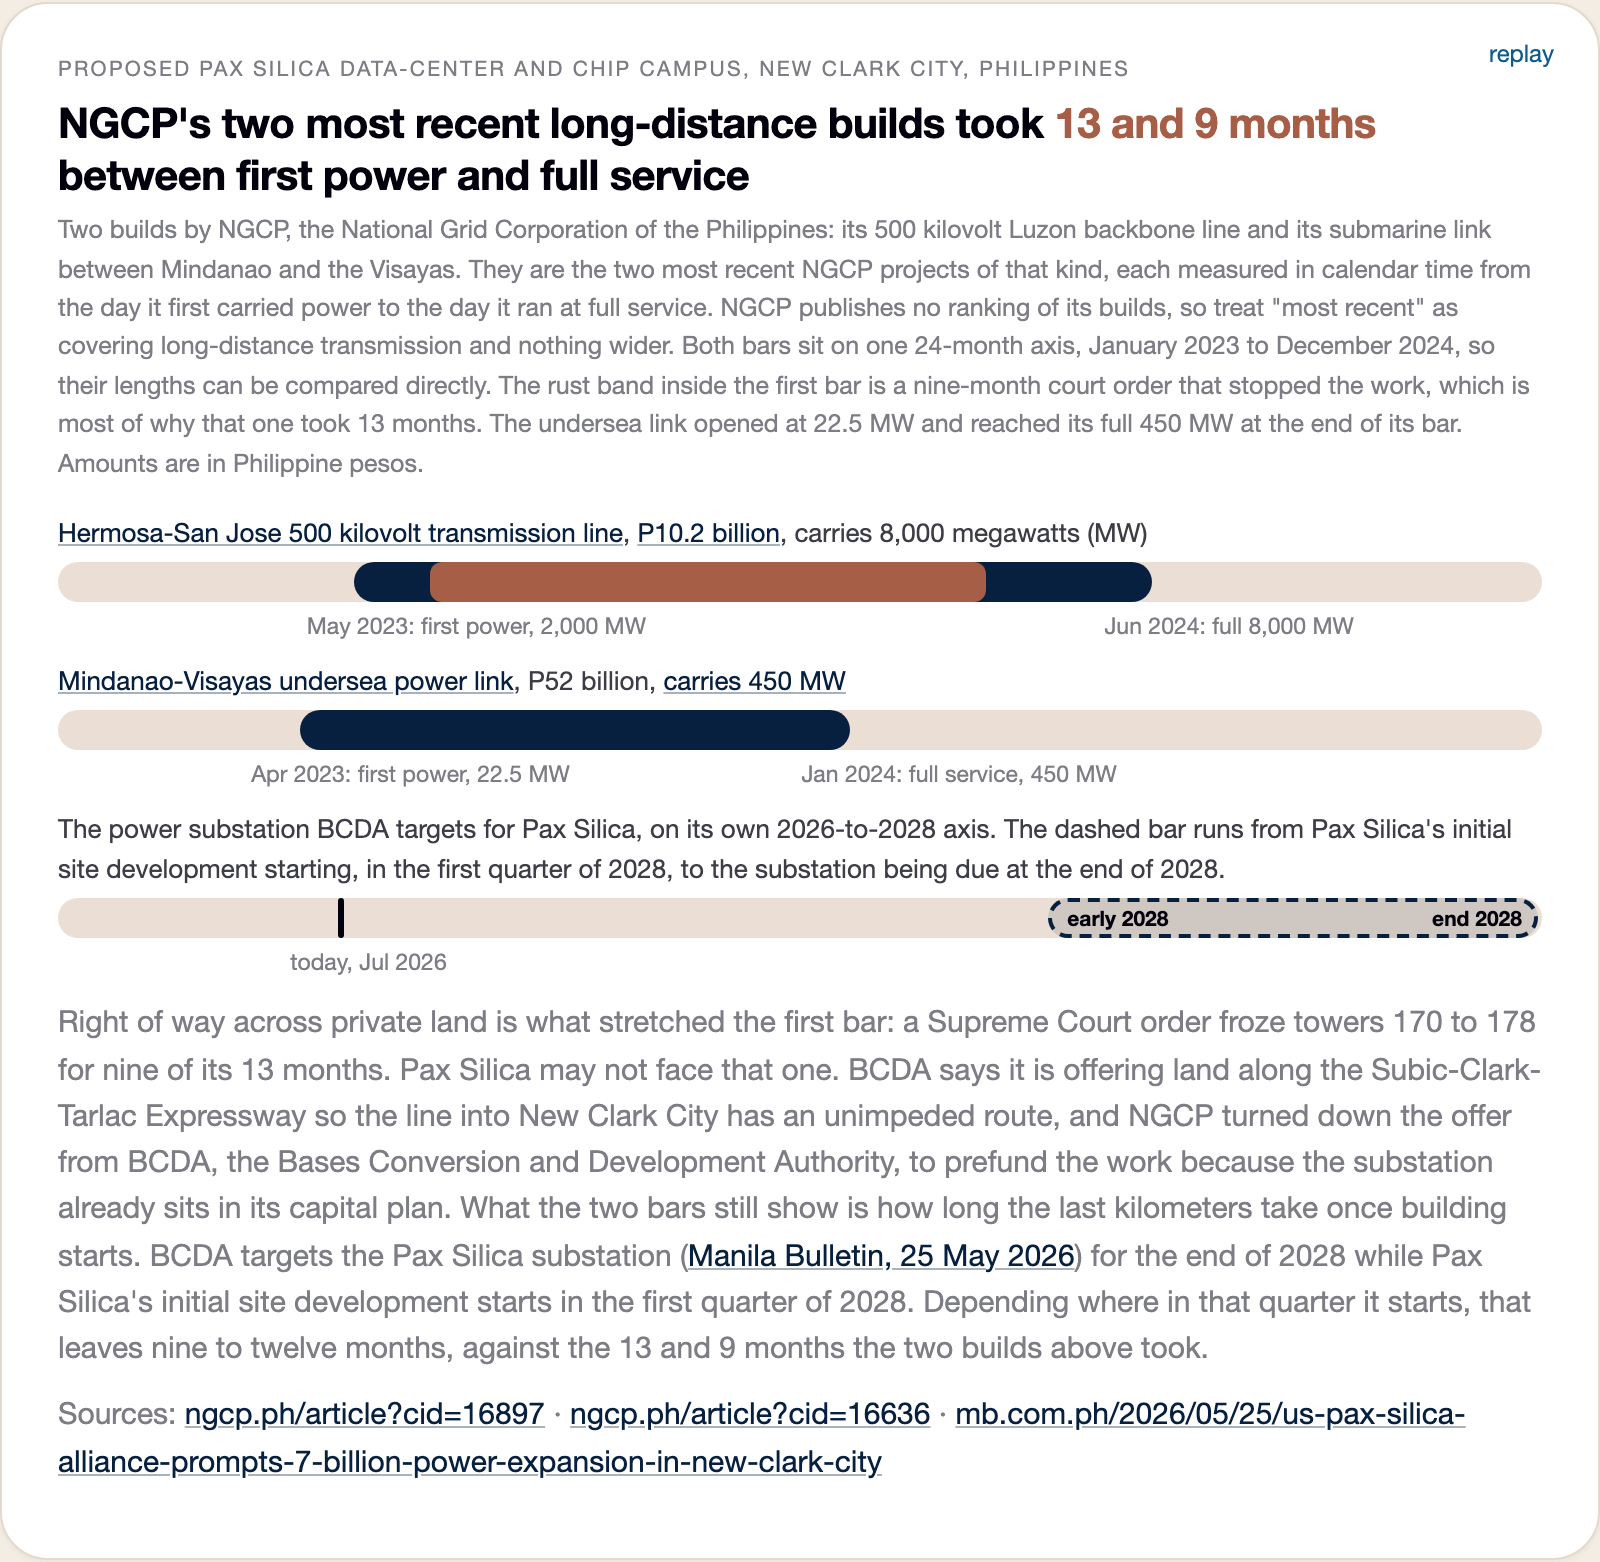
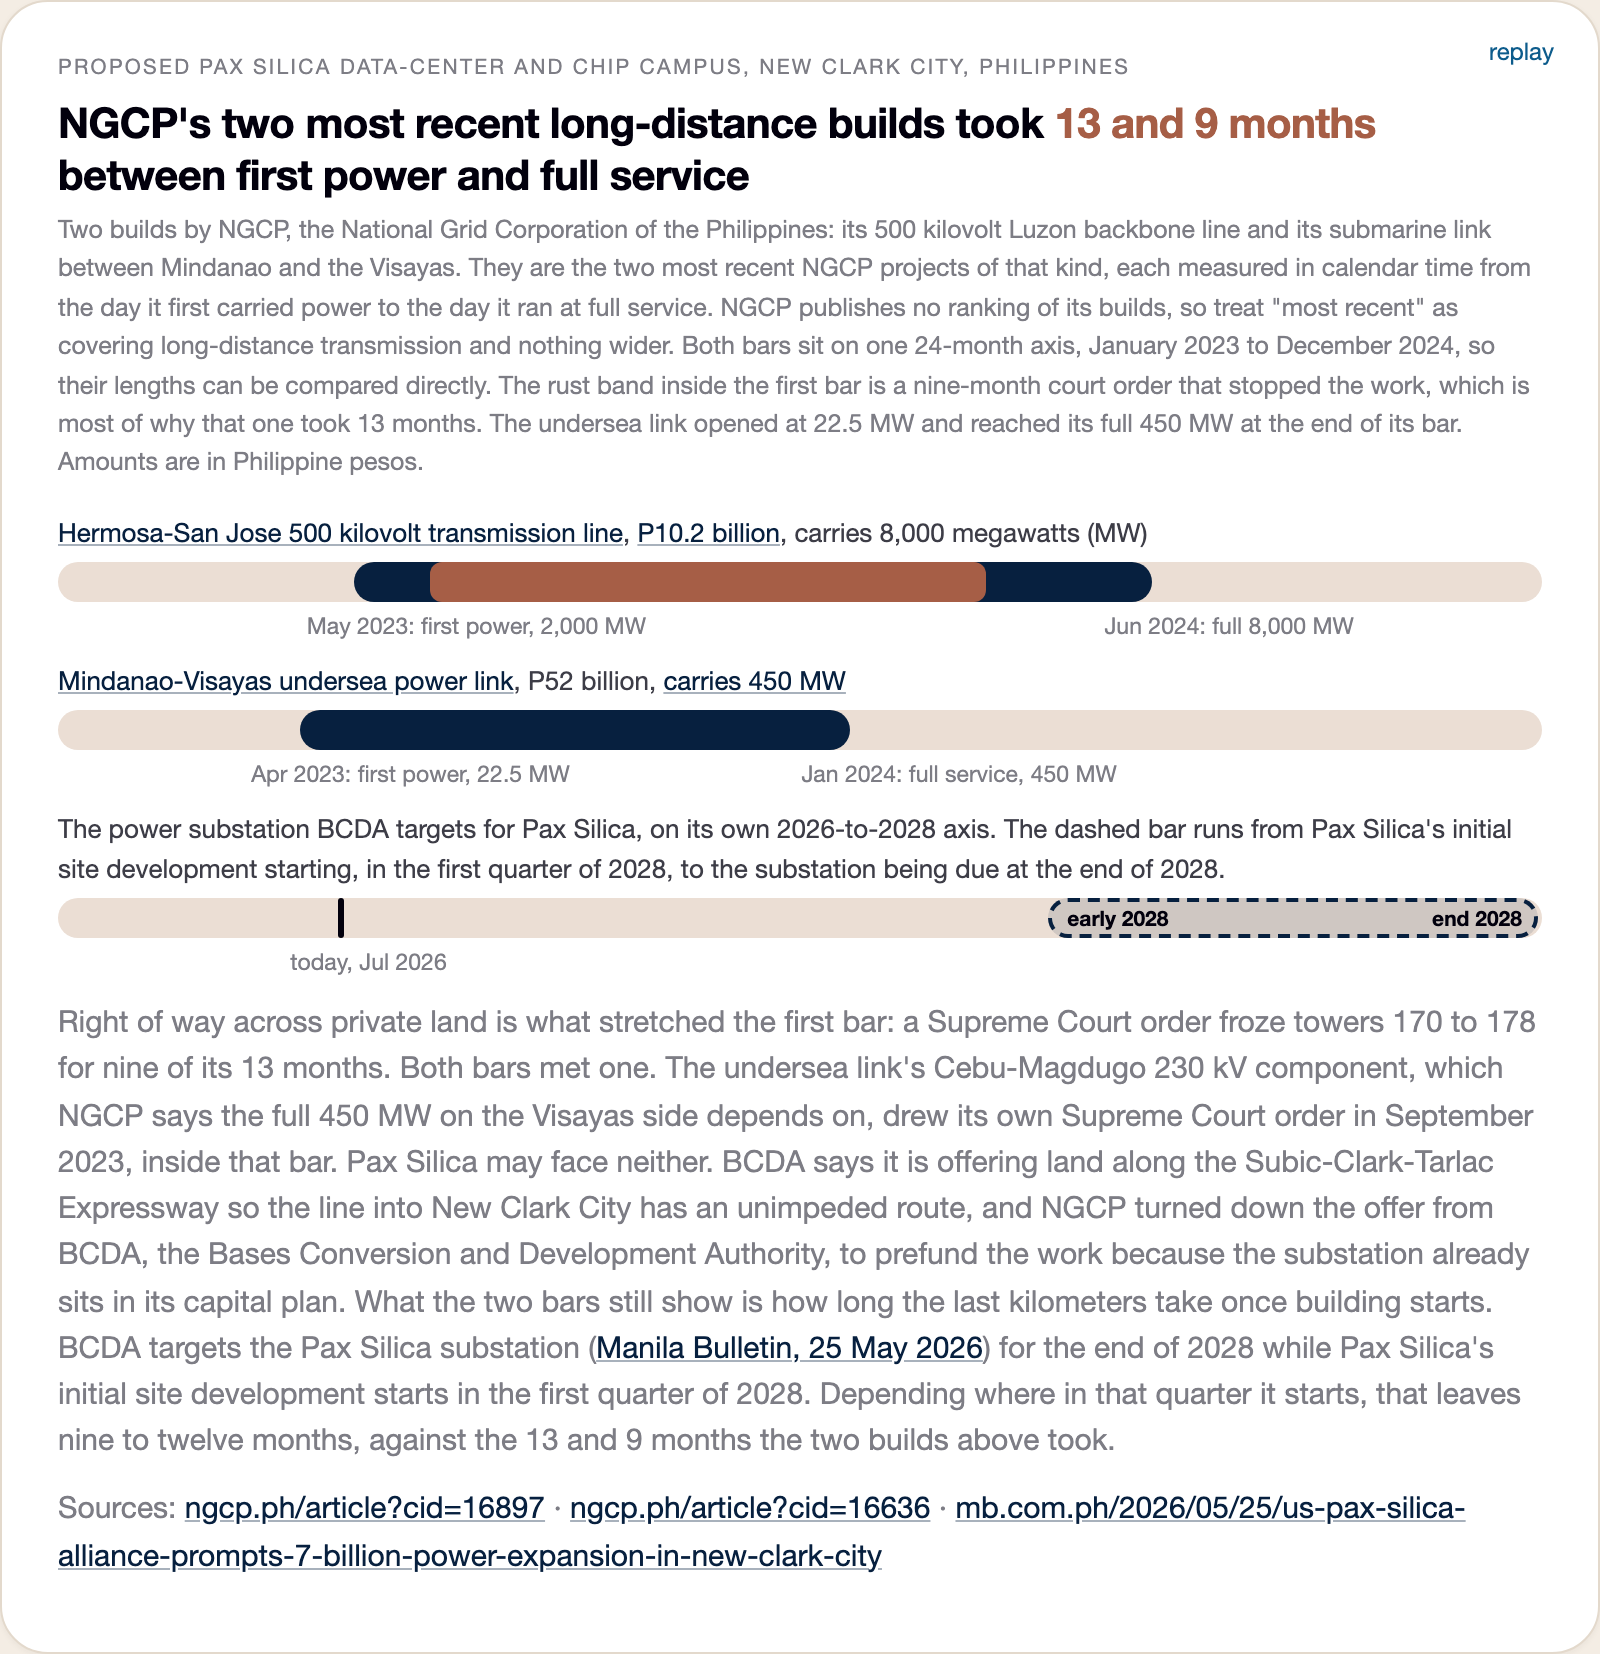
Stop saying hydro sets a P12.00 price, and correct seven more things an eighth reader landed
Round 2's own fix was half wrong. Correcting "oil sets the price in all 24
hours" to "16 of 24" swapped one error for another: the engine's marginal label
is the last block the stack dispatches, not the block whose cost the hour clears
at. In hours 2 and 5 the label is hydro, priced at P0.50 on this page's own
supply curve, while the hour still clears at P12.00. The page now says the price
is P12.00 in every hour, names oil as the last block in 16 of them, and says the
other 8 still clear at P12.00. The bake carries a note on what the label is, so
nobody re-derives the wrong sentence from it.

The section heading said "The two power routes into Pax Silica can carry 770",
while the body two lines down said only one of the two feeds it. A heading gets
read alone. It now says one route.

The two NGCP Visayas numbers are yellow-alert advisories, which forecast the
evening ahead. The 16 June one says peak demand "was expected to reach" 2,384
MW. The page set those against a recorded 105-day maximum and called both
measurements.

Both grid builds met a Supreme Court order, not just the first. NGCP article
16899, which this page already cites for the completion date, records a
September 2023 order on the Cebu-Magdugo 230 kV line, inside the second bar.
"Pax Silica may not face that one" implied the second build ran clean.

Also:
- The solar card dated Enerdata to the 2 June signing while the closing block
[…]

diff --git a/web/pax-silica.html b/web/pax-silica.html
@@ -242,7 +242,8 @@ iyan" was the exact quote), held around the clock here, because chip plants and
 data centers do not sleep. Full development is 10 to 15 years after
 construction starts in 2028, so this is a 2040s figure. Put it beside the three
 island grids on one scale.
-Two NGCP bulletins bracket the same Visayas grid a different way: evening peak
+Two NGCP yellow-alert advisories bracket the same Visayas grid a different way.
+They forecast the evening ahead rather than record it, at a projected peak
 demand of
 <a href="https://www.gmanetwork.com/news/money/economy/991469/ngcp-visayas-grid-yellow-alert-june-15-2026/story/">2,482 MW
 on 15 June 2026</a> and
@@ -276,12 +277,13 @@ on 16 June</a>, against 2,581 and 2,587 MW available.</p>
   <a href="https://www.gmanetwork.com/news/money/economy/991469/ngcp-visayas-grid-yellow-alert-june-15-2026/story/">15 June
   2026</a> and
   <a href="https://www.gmanetwork.com/news/money/economy/991590/ngcp-visayas-grid-yellow-alert-june-16-2026/story/">16 June
-  2026</a> bulletins put Visayas evening peak demand at 2,482 and 2,384 MW,
-  against 2,581 and 2,587 MW available. Those are two different quantities from
-  the 2,744 shown, which is the highest 5-minute market energy requirement in
-  105 archived days and sits 11 to 15 percent above the bulletin peaks. The
-  point of putting them side by side is that they bracket the same grid, not
-  that they agree. Campus figure: BCDA president Joshua Bingcang via
+  2026</a> yellow-alert advisories forecast Visayas evening peak demand at 2,482
+  and 2,384 MW, against 2,581 and 2,587 MW of available capacity. Those are
+  day-ahead projections for one alert window each. The 2,744 shown is a
+  different quantity again: the highest 5-minute market energy requirement
+  recorded in 105 archived days, which sits 11 to 15 percent above the forecast
+  peaks. The point of putting them side by side is that they bracket the same
+  grid, not that they agree or that they measure the same thing. Campus figure: BCDA president Joshua Bingcang via
   <a href="https://www.gmanetwork.com/news/money/economy/995915/pax-silica-ai-hub-to-consume-3-gigawatts-at-full-development-bcda/story/">GMA
   News, 23 Jul 2026</a>, who put it at 3,000 MW at full development, which the
   same agency puts 10 to 15 years after construction starts in 2028. The higher
@@ -305,7 +307,7 @@ on 16 June</a>, against 2,581 and 2,587 MW available.</p>
 
 <!-- ============================ BEAT 2: SUN ============================== -->
 <section class="beat" id="b-sun">
-<h2>The solar farm leased next door covers 4 percent of Pax Silica's electricity for a day. Running Pax Silica on sunlight alone would take panels covering more than six times the area of Makati.</h2>
+<h2>The solar farm signed inside New Clark City covers 4 percent of Pax Silica's electricity for a day. Running Pax Silica on sunlight alone would take panels covering more than six times the area of Makati.</h2>
 <p>The first answer anyone reaches for is solar, and one is actually signed:
 <a href="https://www.enerdata.net/publications/daily-energy-news/acwa-power-secures-site-500-mw-solar-bess-project-philippines.html">ACWA
 Power leased 500 hectares in June 2026 for a farm of up to 500 MW with
@@ -314,7 +316,7 @@ sunset, and count what it covers of Pax Silica's 72,000 megawatt-hour (MWh) day.
 
 <div class="fig" id="fig-acwa" style="--accent:#A65E46">
   <div class="figkick">Proposed Pax Silica data-center and chip campus, New Clark City, Philippines</div>
-  <div class="figtitle">Pax Silica's signed solar farm covers <em class="pop">4.1%</em> of the electricity it needs for a day</div>
+  <div class="figtitle">The 500 MW solar farm signed for New Clark City covers <em class="pop">4.1%</em> of the electricity Pax Silica needs for a day</div>
   <div class="figsub">One day, hour by hour, in megawatts (MW). The dashed line is
   what Pax Silica draws every hour of the day and night. The filled shape under it is what the
   500 MW solar farm ACWA Power leased its site for would make, on a cloudless model day, the
@@ -324,7 +326,7 @@ sunset, and count what it covers of Pax Silica's 72,000 megawatt-hour (MWh) day.
   <p class="srcline">The lease, signed by the Saudi developer ACWA Power with BCDA, the
   Bases Conversion and Development Authority that is building Pax Silica:
   <a href="https://www.enerdata.net/publications/daily-energy-news/acwa-power-secures-site-500-mw-solar-bess-project-philippines.html">Enerdata,
-  2 Jun 2026</a>. The solar shape is this project's cloudless model day, the
+  5 Jun 2026</a>, reporting a lease signed on 2 June. The solar shape is this project's cloudless model day, the
   <a href="https://github.com/xmpuspus/power-dispatch-studio/blob/main/web/data/profiles.json">day-shape this project publishes</a>.</p>
   <p class="rawline">Sources: <a href="https://www.enerdata.net/publications/daily-energy-news/acwa-power-secures-site-500-mw-solar-bess-project-philippines.html">enerdata.net/publications/daily-energy-news/acwa-power-secures-site-500-mw-solar-bess-project-philippines.html</a> &middot; <a href="https://www.gmanetwork.com/news/money/economy/995915/pax-silica-ai-hub-to-consume-3-gigawatts-at-full-development-bcda/story/">gmanetwork.com/news/money/economy/995915</a></p>
 </div>
@@ -366,7 +368,7 @@ Solar's 3,500 MW on 3,500 hectares one province over</a>, that is
 
 <!-- ============================ BEAT 3: WIRES ============================ -->
 <section class="beat" id="b-wires">
-<h2>The two power routes into Pax Silica can carry 770 of the 3,000 MW it needs</h2>
+<h2>One route feeds Pax Silica, and it can carry 770 of the 3,000 MW it needs</h2>
 <p>The second answer is the grid: generate elsewhere, deliver over wires. Pax
 Silica connects to the rest of Luzon through two 230 kilovolt (kV) routes off
 one Concepcion to Clark corridor, each route carrying a pair of circuits on the
@@ -447,7 +449,10 @@ are the slow part:</p>
   </div>
   <p class="srcline">Right of way across private land is what stretched the first
   bar: a Supreme Court order froze towers 170 to 178 for nine of its 13 months.
-  Pax Silica may not face that one. BCDA says it is offering land along the
+  Both bars met one. The undersea link's Cebu-Magdugo 230 kV component, which
+  NGCP says the full 450 MW on the Visayas side depends on, drew its own
+  Supreme Court order in September 2023, inside that bar. Pax Silica may face
+  neither. BCDA says it is offering land along the
   Subic-Clark-Tarlac Expressway so the line into New Clark City has an
   unimpeded route, and NGCP turned down the offer from BCDA, the Bases
   Conversion and Development Authority, to prefund the work because
@@ -472,9 +477,11 @@ everyone, in pesos per kilowatt-hour (kWh). This project's <a href="https://gith
 replays the same recorded day, 25 June 2026, with and without Pax Silica.
 Without it, coal sets the Luzon price in all 24 hours, at the administered coal cost of
 P6.00 per kWh (<a href="https://www.iemop.ph/market-data/indicative-administered-prices/">the
-indicative administered price IEMOP publishes</a>). With it the price is P12.00 in all 24 hours, and oil is the plant
-that sets it in 16 of those hours, with power pulled from the other island grids
-setting 6 and hydro setting 2. Not a spike at the evening peak. The whole day,
+indicative administered price IEMOP publishes</a>). With it the price is P12.00 in every one of the 24 hours,
+because the day now reaches the oil block at the top of the stack. Oil is the
+last block the model dispatches in 16 of those hours. In the other 8 the last
+block is power pulled from the other island grids, or hydro, and the hour still
+clears at P12.00. Not a spike at the evening peak. The whole day,
 doubled, for every buyer on the grid. The doubling is exactly P12.00 over P6.00,
 and the P12.00 is a labelled assumption, so that one number sets the size of the
 claim: at P9.00 the same run reads 1.5 times, at P15.00 it reads 2.5.</p>
@@ -721,7 +728,11 @@ them against the city they sit in and two places whose size people know.</p>
   and Santa Lucia, so the 10 is BCDA's count of directly affected farmers and not
   a count of everyone on its own list. Kalikasan, an environmental network, puts
   displacement from the whole New Clark City project at 20,000 Indigenous people and
-  15,000 farmers. Those cover Pax Silica's own hectares and the whole
+  15,000 farmers. Reporting carries that figure two ways: PhilSTAR Life, quoting
+  the South China Morning Post, has Kalikasan's coordinator at 20,000 Indigenous
+  people and 15,000 farmers, while the GMA explainer puts the same concern at
+  "around 20,000 indigenous Aetas and local farmers", one count covering both
+  groups. This page prints the larger reading and names the smaller one here. Those cover Pax Silica's own hectares and the whole
   city around it, so they cannot be subtracted. BCDA's answer on the Indigenous
   question is that the land is public and carries no ancestral domain title;
   Kalikasan's answer is that the Aeta community there sought titles for decades

diff --git a/pipeline/perspective.py b/pipeline/perspective.py
@@ -61,6 +61,12 @@ CAPAS_FARMLAND_PCT = 30.0
 # displacement from the New Clark City project as a whole at 20,000
 # Indigenous people and 15,000 farmers. The two cover DIFFERENT ground: the
 # first is the Pax Silica site, the second the whole city. Never subtract them.
+# The advocacy pair itself is reported two ways: PhilSTAR Life via SCMP has
+# 20,000 Indigenous people AND 15,000 farmers, while the GMA explainer has
+# "around 20,000 indigenous Aetas and local farmers", one count over both
+# groups. The page prints the larger reading and names the smaller one beside
+# it. https://philstarlife.com/news-and-views/314814-what-exactly-is-pax-silica
+# https://www.gmanetwork.com/news/topstories/regions/996145/explainer-how-would-pax-silica-sustain-its-water-demand/story/
 FARMERS_BCDA = 10
 DISPLACED_ADVOCACY_IP, DISPLACED_ADVOCACY_FARMERS = 20000, 15000
 # BCDA's own initial list of Project Affected Persons, reported by the
@@ -328,9 +334,17 @@ def price_effect(day: str) -> dict:
     base, wave = base_run["summary"], wave_run["summary"]
 
     def marginal_hours(run):
+        # NOTE ON WHAT THIS LABEL IS. chrono.marginal() returns the last block
+        # the stack dispatches, which is NOT always the block whose cost the
+        # hour clears at: with imports and energy-limited hydro in the stack,
+        # an hour can be labelled hydro and still price at the oil cost. So the
+        # page may say which block runs last, and must never say that block
+        # "sets the price".
         c = collections.Counter(h["marginal"]["luzon"] for h in run["hours"])
+        prices = sorted({round(h["price"]["luzon"], 2) for h in run["hours"]})
         return {"top": c.most_common(1)[0][0], "top_hours": c.most_common(1)[0][1],
-                "counts": dict(c), "hours": 24}
+                "counts": dict(c), "hours": 24, "price_levels": prices,
+                "label_is": "last block dispatched, not the price setter"}
 
     def rent(s):
         return s["leyte_rent_m_php"] + s["mvip_rent_m_php"]

diff --git a/docs/pax-silica-visuals.md b/docs/pax-silica-visuals.md
@@ -50,13 +50,13 @@ Luzon and that is the grid it would join. It is not part of the 14,232 MW
 already there. It takes the Visayas block's own shape and is scaled by area,
 at the same baseline, so you can see that Pax Silica alone is bigger than that
 whole grid, and bigger than Mindanao's too. The chip carries the translation, since 3,000 MW around the
-clock is the electricity of 10.9 million homes at Meralco's 200 kWh a
-month typical household. One thing to remember when reading it is that the
+clock is the electricity of 10.9 million homes, at the 200 kWh a month Meralco
+works its own example bill on. One thing to remember when reading it is that the
 grid pieces were measured while the dashed square is a promise on paper.
 Reporting on the project separately projects demand of at least 5,000 MW, and
 neither report says how that fits with the announced 3,000.
 
-## Pax Silica's signed solar farm covers 4.1% of the electricity it needs for a day
+## The 500 MW solar farm signed for New Clark City covers 4.1% of the electricity Pax Silica needs for a day
 
 ![One day in megawatts. A flat dashed line at 3,000 for Pax Silica. A low filled hump for the solar farm, peaking at 390 at noon](pax-silica-figs/acwa.png)
 
@@ -92,16 +92,19 @@ uses.
 
 ![Transmission towers in two bands. Two solid navy lines exist and carry 769 MW. Three dashed rust lines do not exist yet](pax-silica-figs/wires.png)
 
-The chart is the transmission itself. Every line drawn is one circuit into
-the site, with towers on it. The two solid navy lines are the circuits that
+The chart is the transmission itself. Every line drawn is one 230 kilovolt
+route into Pax Silica, carrying two circuits on shared towers. The two solid
+navy lines are the routes that
 exist, and together they have 769 MW of room at the modeled 7pm on a real day
-(25 June 2026). The three dashed rust lines do not exist. They are how many
-more circuits of the same kind the remaining 2,231 MW would take, at the
-standard rating for a 230 kilovolt line, or one 500 kilovolt line instead. The
+(25 June 2026). Only one of the two actually feeds Pax Silica. The three dashed
+rust lines do not exist. They are how many
+more routes of the same kind the remaining 2,231 MW would take, at a class
+default of 400 MW a circuit and so 800 MW a route, or one 500 kilovolt line
+instead. The
 line at the bottom closes the arithmetic. 769 that can arrive plus 2,231 that
 cannot is the 3,000 MW Pax Silica needs every hour. This form answers the question a grid planner
-actually asks, which is not how full a tank is but the number of circuits
-missing. The answer is three.
+actually asks, which is not how full a tank is but the number of routes
+missing. The answer is three, which covers the gap with about 170 MW to spare.
 
 ## NGCP's two most recent long-distance builds took 13 and 9 months between first power and full service
 
@@ -233,9 +236,10 @@ jobs.
 ## Every chart rests on at least one number nobody has published, whether line ratings, the connection point, or the site's water
 
 NGCP does not publish what its lines can carry, so the 770 MW limit is a
-standard assumption and everything built on it moves with it. The map puts
-Pax Silica 8.6 km from the real site, because the real connection point is
-not public. The solar day is cloudless and Pax Silica's demand is held
+class default of 400 MW a circuit, and everything built on it moves with it. The
+model connects Pax Silica to a bus 8.6 km from the site, because the real
+connection point is not public. That is an electrical simplification, not a
+misplaced pin on the map. The solar day is cloudless and Pax Silica's demand is held
 flat, both of which are generous to the supply side. The water arithmetic
 uses a per-person standard rather than a study of the site. And every announced
 number is one side's announcement. Nobody has independently checked BCDA's
